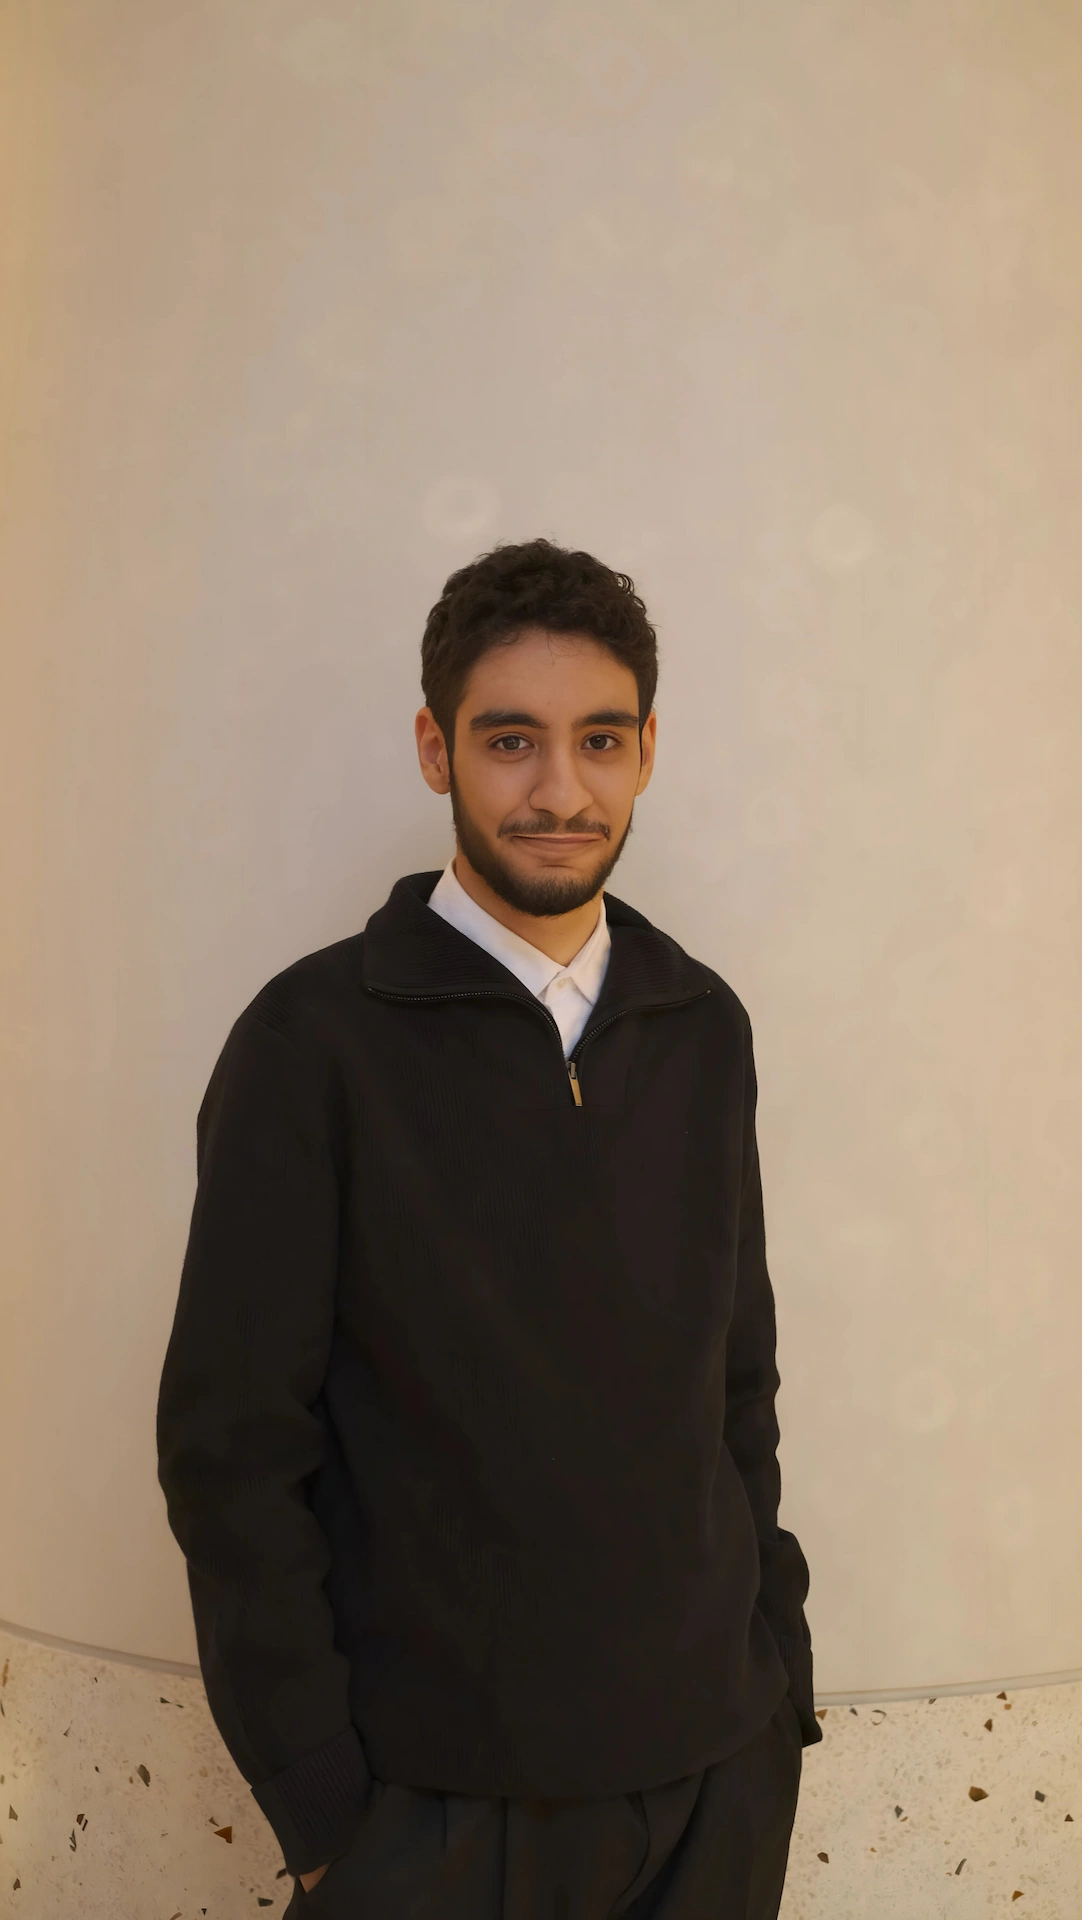
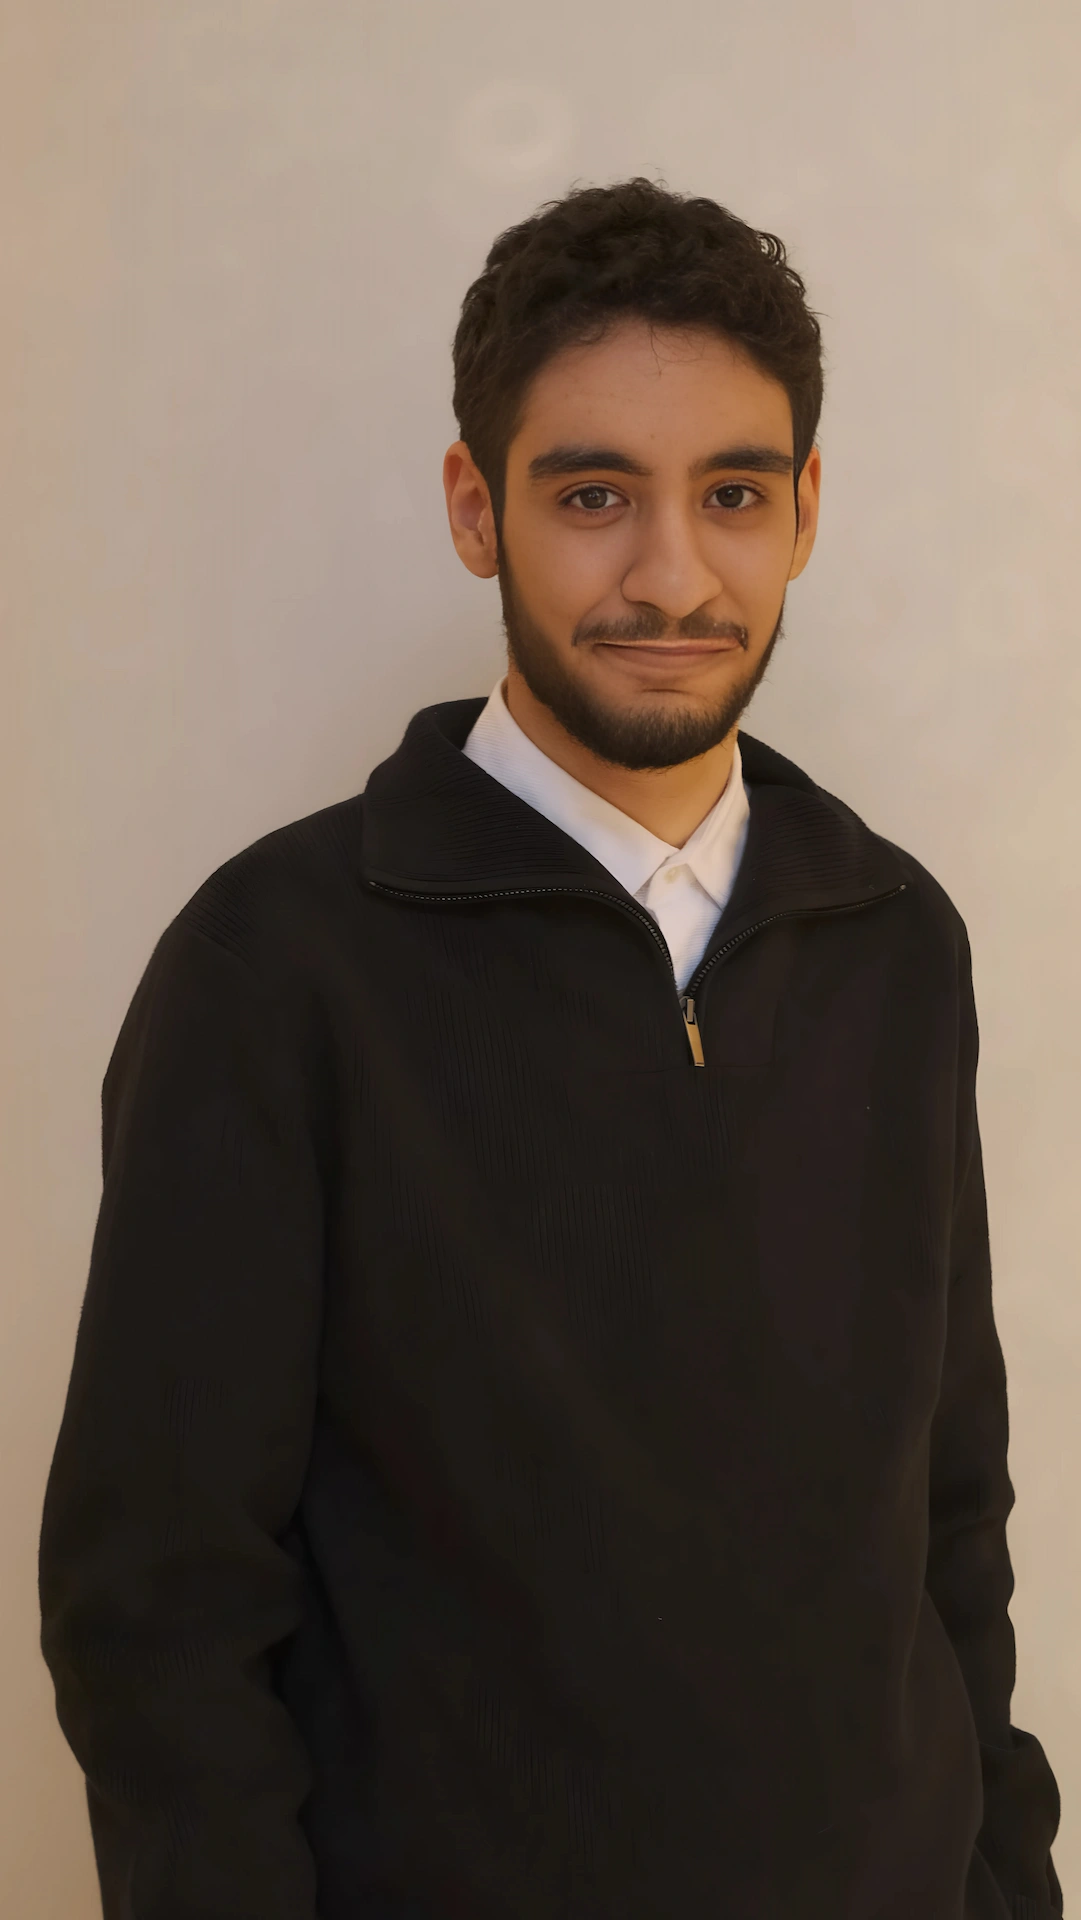
Changement des images

diff --git a/src/pages/Loader.jsx b/src/pages/Loader.jsx
@@ -1,4 +1,4 @@
-import ImageAccueil from "/PREZ.jpg";
+import ImageAccueil from "/PREZ.webp";
 import Haussman from "/Haussman.webp";
 import Vendome from "/Vendome.webp";
 import Vosges from "/Vosges.webp";

diff --git a/src/pages/Home.jsx b/src/pages/Home.jsx
@@ -1,4 +1,4 @@
-import Image1 from "/PREZ.jpg";
+import Image1 from "/PREZ.webp";
 
 import ConnectSection from "../sections/ConnectSection";
 import Ebook from "../sections/Ebook";
